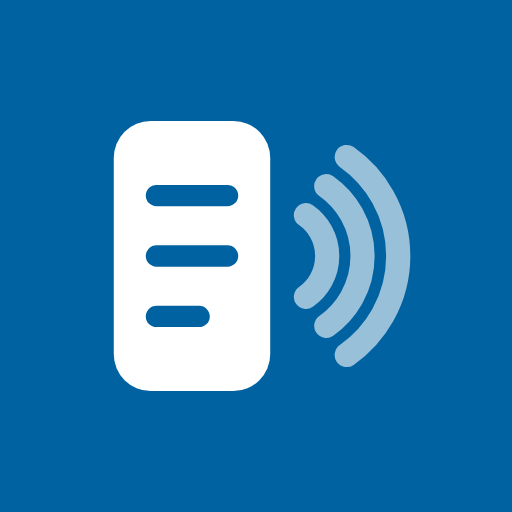
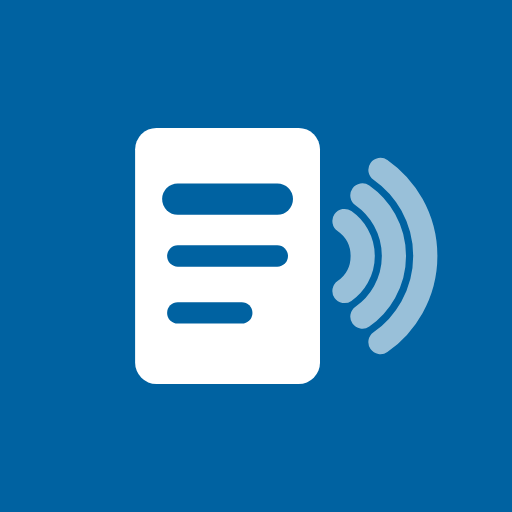
Design review fixes: mark reads as a page, brand off decoration
A finish review against the direction contract returned eight material fixes.
Seven are applied; the eighth was overruled by the product owner and recorded.

The mark was wrong. At 11x19 with a 2.6 corner radius it read as a handset with
Wi-Fi arcs, not as a notice — the one thing the whole identity rests on. It is
now 13x18 at radius 1.5, close to paper's proportions, with a heavier top rule
standing in for a title line. All six shipped icons were re-rasterized from the
new geometry rather than left to drift from the component.

Brand blue stops decorating. Both hero radial washes are gone from the landing
and auth shells — a tinted gradient field behind a headline is the generic-SaaS
tell, and OWN-WORLD reserves the colour for action, selection, link and focus.
The unread badge moves to ink for the same reason: a count is status, not
something you can act on.

The authored moment now has some reach. The logo arcs draw themselves on via
stroke-dashoffset instead of fading up; pathLength="1" normalises the three
radii so they draw at one rate. Reduced-motion guard unchanged.

Phone layout. Four stat tiles stacked one-per-row pushed the day's shortlist off
the first screen; they are two-up and tighter below lg, and the whole dashboard
now fits one 390x844 view. The assistant launcher is an icon-only button below
sm, because the labelled pill sat on top of the content.

The assistant panel header lost its tagline. "A clearer path from notice to
[…]

Changed region(s): [[0.2188, 0.2188, 0.875, 0.7812]]

diff --git a/frontend/src/features/assistant/AssistantProvider.tsx b/frontend/src/features/assistant/AssistantProvider.tsx
@@ -929,14 +929,23 @@ function AssistantSession({
         <>
           {!open && (
             <div className="assistant-launcher">
+              {/* A labelled pill covers the content beneath it on a phone, so
+                  below `sm` the launcher is the icon alone. */}
               <Button
                 size="lg"
-                className="h-12 rounded-full px-5 shadow-lg"
+                aria-label={
+                  live ? "Return to live conversation" : "Ask TenderSense"
+                }
+                className="relative size-12 rounded-full p-0 shadow-lg sm:h-12 sm:w-auto sm:px-5"
                 onClick={() => setOpen(true)}
               >
                 <MessageCircleIcon data-icon="inline-start" />
-                {live ? "Return to live conversation" : "Ask TenderSense"}
-                {live && <span className="size-2 rounded-full bg-success" />}
+                <span className="hidden sm:inline">
+                  {live ? "Return to live conversation" : "Ask TenderSense"}
+                </span>
+                {live && (
+                  <span className="absolute top-1 right-1 size-2 rounded-full bg-success sm:static" />
+                )}
               </Button>
               {live && (
                 <Button variant="destructive" size="sm" onClick={endVoice}>
@@ -970,9 +979,28 @@ function AssistantSession({
                   <SparklesIcon className="size-4" />
                 </div>
                 <div className="min-w-0 flex-1">
-                  <DialogTitle className="text-sm font-medium">TenderSense assistant</DialogTitle>
-                  <DialogDescription className="mt-1 text-[11px]">
-                    A clearer path from notice to decision
+                  {/*
+                    "TenderSense assistant" needs two lines beside five action
+                    buttons at 420px, and truncates to "TenderSense as…" on a
+                    phone. The mark sits immediately to the left, so the product
+                    name is already on screen; the description below carries it
+                    for screen readers.
+                  */}
+                  <DialogTitle className="truncate text-sm font-medium">
+                    Assistant
+                  </DialogTitle>
+                  {/*
+                    The tagline that used to sit here ("a clearer path from
+                    notice to decision") told the reader nothing and wrapped to
+                    two lines, so the header ate 190px of a phone screen. The
+                    panel already states its grounding twice below — the mode
+                    marker and the composer footnote — so this stays for screen
+                    readers only.
+                  */}
+                  <DialogDescription className="sr-only">
+                    TenderSense assistant. Ask about the selected tender;
+                    answers are grounded in its notice, your company profile,
+                    and the recorded assessment.
                   </DialogDescription>
                 </div>
                 <Button

diff --git a/frontend/src/components/layout/AppHeader.tsx b/frontend/src/components/layout/AppHeader.tsx
@@ -187,12 +187,12 @@ function NotificationBell() {
       >
         <BellIcon />
         {count > 0 && (
-          // Sat over the middle of the bell before, hiding the glyph it was
-          // meant to annotate. Pushed out to the corner, with a ring so it
-          // still separates from the icon behind it.
+          // Ink rather than brand: an unread count is status, and blue is
+          // reserved for things you can act on. It also sat over the middle of
+          // the bell before, hiding the glyph it annotates.
           <span
             aria-hidden
-            className="absolute -top-0.5 -right-0.5 flex h-4 min-w-4 items-center justify-center rounded-full bg-primary px-1 text-[10px] leading-none font-semibold text-primary-foreground ring-2 ring-background tabular-nums"
+            className="absolute -top-0.5 -right-0.5 flex h-4 min-w-4 items-center justify-center rounded-full bg-foreground px-1 text-[10px] leading-none font-semibold text-background ring-2 ring-background tabular-nums"
           >
             {count > 9 ? "9+" : count}
           </span>
@@ -206,9 +206,11 @@ function NotificationBell() {
 export function AppHeader({ breadcrumb }: { breadcrumb?: React.ReactNode }) {
   return (
     // Sticky and translucent: the breadcrumb and org context stay reachable
-    // while a long tender scrolls beneath them.
-    <header className="material-chrome sticky top-0 z-20 flex h-14 shrink-0 items-center gap-2 border-b px-4">
-      <SidebarTrigger className="-ml-1" />
+    // while a long tender scrolls beneath them. Horizontal padding matches the
+    // content column's, so the header's chrome starts on the page's gutter
+    // instead of 4px inside it.
+    <header className="material-chrome sticky top-0 z-20 flex h-14 shrink-0 items-center gap-2 border-b px-4 md:px-6">
+      <SidebarTrigger className="-ms-2" />
       <Separator orientation="vertical" className="mr-2 h-4" />
       <div className="min-w-0 flex-1">{breadcrumb ?? <AutoBreadcrumb />}</div>
       <div className="flex items-center gap-1">

diff --git a/frontend/src/components/brand/Logo.tsx b/frontend/src/components/brand/Logo.tsx
@@ -40,19 +40,36 @@ export function LogoMark({
         strokeLinecap="round"
         opacity="0.55"
       >
-        <path d="M15.51 9.13A3.5 3.5 0 0 1 15.51 14.87" />
-        <path d="M16.94 7.09A6 6 0 0 1 16.94 16.91" />
-        {!compact && <path d="M18.38 5.04A8.5 8.5 0 0 1 18.38 18.96" />}
+        {/* pathLength normalises the three radii so one dash length draws them
+            all evenly when the landing hero animates the signal. */}
+        <path pathLength={1} d="M16.72 9.54A3 3 0 0 1 16.72 14.46" />
+        <path pathLength={1} d="M17.98 7.74A5.2 5.2 0 0 1 17.98 16.26" />
+        {!compact && (
+          <path pathLength={1} d="M19.25 5.94A7.4 7.4 0 0 1 19.25 18.06" />
+        )}
       </g>
-      <rect x="2" y="2.5" width="11" height="19" rx="2.6" fill="currentColor" />
+      {/*
+        A page, not a handset: 13 × 18 is close to paper's 1:1.4, and the 1.5
+        corner radius keeps it from rounding into a phone. The top rule is
+        heavier than the rest so it reads as a notice's title line.
+      */}
+      <rect x="2" y="3" width="13" height="18" rx="1.5" fill="currentColor" />
       <g
         stroke="var(--logo-paper, var(--background))"
-        strokeWidth={compact ? 1.6 : 1.5}
         strokeLinecap="round"
       >
-        <path d="M5 7.75H10" />
-        <path d="M5 12H10" />
-        {!compact && <path d="M5 16.25H8" />}
+        {compact ? (
+          <>
+            <path d="M5 8.5H12" strokeWidth={2.6} />
+            <path d="M5 14H10" strokeWidth={1.9} />
+          </>
+        ) : (
+          <>
+            <path d="M5 8H12" strokeWidth={2.2} />
+            <path d="M5 12H12" strokeWidth={1.5} />
+            <path d="M5 16H9.5" strokeWidth={1.5} />
+          </>
+        )}
       </g>
     </svg>
   )

diff --git a/frontend/src/routes/_app/app/dashboard.tsx b/frontend/src/routes/_app/app/dashboard.tsx
@@ -30,16 +30,21 @@ function Stat({
   value: number | undefined
   isLoading?: boolean
 }) {
+  // Stacked one-per-row on a phone, four tiles at full desktop spacing pushed
+  // the day's shortlist most of a screen down. Below `sm` the label and value
+  // sit as one tight group instead.
   return (
-    <Card>
-      <CardHeader className="pb-2">
-        <CardDescription>{label}</CardDescription>
+    <Card className="gap-1 [--card-spacing:--spacing(3)] sm:gap-4 sm:[--card-spacing:--spacing(4)]">
+      <CardHeader className="pb-0 sm:pb-2">
+        <CardDescription className="text-xs sm:text-sm">
+          {label}
+        </CardDescription>
       </CardHeader>
       <CardContent>
         {isLoading ? (
-          <Skeleton className="h-8 w-16" />
+          <Skeleton className="h-7 w-14 sm:h-8 sm:w-16" />
         ) : (
-          <span className="text-3xl font-semibold tabular-nums">
+          <span className="text-2xl font-semibold tabular-nums sm:text-3xl">
             {value ?? 0}
           </span>
         )}
@@ -99,7 +104,9 @@ function DashboardPage() {
         description="Your tender activity at a glance."
       />
 
-      <div className="grid gap-4 sm:grid-cols-2 lg:grid-cols-4">
+      {/* Two-up on a phone: stacked one-per-row, four tiles pushed the day's
+          shortlist off the first screen entirely. */}
+      <div className="grid grid-cols-2 gap-3 sm:gap-4 lg:grid-cols-4">
         <Stat
           label="Open matches"
           value={stats.data?.total}

diff --git a/frontend/src/index.css b/frontend/src/index.css
@@ -370,8 +370,12 @@
  * once, as the page arrives, then rests. Not a loop — a loop is decoration.
  */
 @media (prefers-reduced-motion: no-preference) {
+  /* The arcs draw themselves on, innermost first — the signal arriving,
+     rather than three shapes fading up. Each path carries pathLength="1",
+     so one dash length draws all three radii at the same rate. */
   .logo-signal [data-signal] path {
-    opacity: 0;
+    stroke-dasharray: 1;
+    stroke-dashoffset: 1;
     animation: logo-arc-in 620ms var(--motion-ease-out) forwards;
   }
   .logo-signal [data-signal] path:nth-child(2) {
@@ -384,10 +388,10 @@
 
 @keyframes logo-arc-in {
   from {
-    opacity: 0;
+    stroke-dashoffset: 1;
   }
   to {
-    opacity: 1;
+    stroke-dashoffset: 0;
   }
 }
 

diff --git a/frontend/src/routes/_auth.tsx b/frontend/src/routes/_auth.tsx
@@ -17,16 +17,6 @@ export const Route = createFileRoute("/_auth")({
 function AuthLayout() {
   return (
     <div className="relative flex min-h-svh flex-col bg-muted/40">
-      {/*
-        A single wash of brand behind the card, strongest at the top edge and
-        gone by the fold. It gives the page a light source without tinting the
-        form itself, which has to stay neutral to read as an input surface.
-      */}
-      <div
-        aria-hidden
-        className="pointer-events-none absolute inset-x-0 top-0 h-80 bg-[radial-gradient(ellipse_60%_100%_at_50%_0%,color-mix(in_oklch,var(--primary)_14%,transparent),transparent)]"
-      />
-
       <header className="relative flex items-center justify-between px-6 py-5">
         <Link
           to="/"

diff --git a/frontend/src/routes/index.tsx b/frontend/src/routes/index.tsx
@@ -74,11 +74,7 @@ function LandingPage() {
 
       <main className="flex-1">
         {/* Hero */}
-        <section className="relative overflow-hidden border-b">
-          <div
-            aria-hidden
-            className="pointer-events-none absolute inset-x-0 top-0 h-[28rem] bg-[radial-gradient(ellipse_55%_100%_at_50%_0%,color-mix(in_oklch,var(--primary)_13%,transparent),transparent)]"
-          />
+        <section className="relative border-b">
           <div className="relative mx-auto flex w-full max-w-5xl flex-col items-center gap-8 px-6 py-24 text-center sm:py-32">
             <LogoMark
               size={64}

diff --git a/.impeccable/surfaces/frontend-src-index-css.md b/.impeccable/surfaces/frontend-src-index-css.md
@@ -26,26 +26,40 @@ to the OS. Grade colours (S violet, A green, B amber, C grey) are shipped data
 and may not be rebranded. Colour strategy: **Restrained** — neutrals plus one
 accent, the correct floor for a surface people came to operate.
 
+**Pinned exception — the voice orb.** The product owner ruled the assistant's
+voice orb the sole exception to the flat-2D icon rule: it keeps its dimensional
+treatment (conic gradient, specular highlight, inset shadow). A finish review
+scored that treatment as contradicting OWN-WORLD's MATERIAL line; the owner
+overrode it. The exception is the orb and nothing else — no other surface earns
+imitation dimensionality from it.
+
 Unresolved: none blocking. Whether the tender table gains a density control is
 deferred, being a layout change and out of the agreed scope.
 
 ## Direction contract
 
 THESIS: The surface owns *evidence beside verdict* — a grade is never shown
-without the reason it can be checked against. It refuses the SaaS-dashboard
+without the reason it can be checked against. It rejects the SaaS-dashboard
 default arrangement, a row of aggregate KPI tiles above a chart above a table,
 which spends the best real estate on vanity totals while the day's actual
-decisions queue below the fold.
+decisions queue below the fold. **Known conflict, deferred:** the shipped
+dashboard still opens on four KPI tiles. That composition predates this work
+(last touched at `ebb17bc`, M6) and removing it is a route recomposition, which
+the product owner excluded from scope. The tiles were compressed below `sm` so
+they stop consuming most of a phone's first viewport, but the arrangement itself
+stands and this THESIS does not yet describe `/app/dashboard`.
 
 OWN-WORLD: Cool near-neutral grounds (`oklch(0.994 0.002 245)` paper,
-`oklch(0.178 0.012 250)` night) separated by hairlines rather than nested boxes.
-Ocean blue appears only on action, selection, link and focus — never as
-decoration or as a filled hero panel. Grade colour is data and is the only
-saturation permitted to carry meaning. Component metrics stay exactly as shadcn
-Base UI ships them: 32px controls, 10px radii, 14px cards on a 1px
-`foreground/10` ring, 20px pill badges, Lucide at 1.7px stroke on a 24px grid.
-Geist for Latin, Noto Sans Bengali for Bengali content, one family each, no
-display face. Numerals are tabular wherever a figure can change.
+`oklch(0.178 0.012 250)` night) separated by hairlines rather than nested boxes,
+and left unwashed — no brand-tinted gradient fields behind a hero. Ocean blue
+appears only on action, selection, link and focus; a status count takes ink, not
+brand. Grade colour is data and is the only saturation permitted to carry
+meaning. Component metrics stay exactly as shadcn Base UI ships them: 32px
+controls, 10px radii, 14px cards on a 1px `foreground/10` ring, 20px pill badges,
+Lucide at 1.7px stroke on a 24px grid. Materials are flat — the single pinned
+exception is the voice orb, recorded above. Geist for Latin, Noto Sans Bengali
+for Bengali, one family each, no display face. Numerals are tabular wherever a
+figure can change.
 
 STORY: The visitor understands within one screen which notices closed the gap
 between "worth reading" and "worth bidding", believes it because every grade
@@ -53,20 +67,23 @@ carries its evidence and every unknown is labelled unknown rather than rounded,
 and acts by opening a notice and recording bid, hold or skip.
 
 FIRST VIEWPORT: A 256px sidebar carrying the signal mark and the workspace
-navigation; a 56px translucent sticky header with breadcrumb, org switcher,
-theme control and the notification bell. The content column leads with the page
-title and its one-line description, then the day's shortlist as ranked rows —
-each row a grade letter, the title, the procuring entity, the money, and the
-deadline as time-remaining in the org's timezone. The primary action is per-row
-and inline: open the notice. No hero panel, no full-bleed colour field.
+navigation; a 56px translucent sticky header whose horizontal gutter matches the
+content column's, carrying breadcrumb, org switcher, theme control and the
+notification bell. The content column leads with the page title and its one-line
+description, then the day's shortlist as ranked rows — each row a grade letter,
+the title, the procuring entity, the money, and the deadline as time-remaining in
+the org's timezone. The primary action is per-row and inline: open the notice. No
+hero panel, no full-bleed colour field. (See the THESIS note: on
+`/app/dashboard` four KPI tiles currently sit between the description and the
+shortlist.)
 
-FORM: Refined instance of the established application shell — position one on
-the ordered list, because the product owner scoped this to the visual layer and
-an Operate surface earns familiarity rather than novelty. No seed key: the
-direction was pinned by the product owner in this session (signal-document mark,
-ocean blue, Apple principles, both themes), and a pinned direction beats the
-roll, so the concept tournament was not run. This is recorded rather than
-skipped silently.
+FORM: Refined instance of the established application shell — position one on the
+ordered list, because the product owner scoped this to the visual layer and an
+Operate surface earns familiarity rather than novelty. No seed key: the direction
+was pinned by the product owner in this session (signal-document mark, ocean
+blue, Apple principles, both themes), and a pinned direction beats the roll, so
+the concept tournament was not run. This is recorded rather than skipped
+silently.
 
 FINISH: unreviewed and undocumented is unfinished; this build ends with the
 finish review, the verdict, DESIGN.md, and every shipping raster carrying its

diff --git a/DESIGN.md b/DESIGN.md
@@ -299,6 +299,13 @@ The assistant's orb encodes microphone amplitude as scale and session state as
 motion, with a readable text label always present beside it. It carries no
 meaning in colour alone and stops entirely under `prefers-reduced-motion`.
 
+**It is the one sanctioned exception to the flat-material rule.** The orb keeps
+its conic gradient, specular highlight and inset shadow. A finish review scored
+that as contradicting the flat 2D world; the product owner overruled it
+deliberately. The exception covers the orb and nothing else — no other surface
+inherits imitation dimensionality from it, and this is not a licence to add
+gradients or bevels elsewhere.
+
 ## Do's and Don'ts
 
 ### Do:
@@ -313,7 +320,10 @@ meaning in colour alone and stops entirely under `prefers-reduced-motion`.
 ### Don't:
 
 - Don't invert one theme to make the other.
-- Don't use brand blue for anything but action, selection, link or focus.
+- Don't use brand blue for anything but action, selection, link or focus. A
+  status count (the unread badge) takes ink, not brand.
+- Don't wash a surface with a brand-tinted radial gradient. The hero glow behind
+  a headline is the generic-SaaS tell; both instances were removed.
 - Don't reuse a grade or status colour as a chart series.
 - Don't put a kicker or eyebrow above a heading.
 - Don't ship gradient text, glass-as-decoration, coloured left-border accents,
